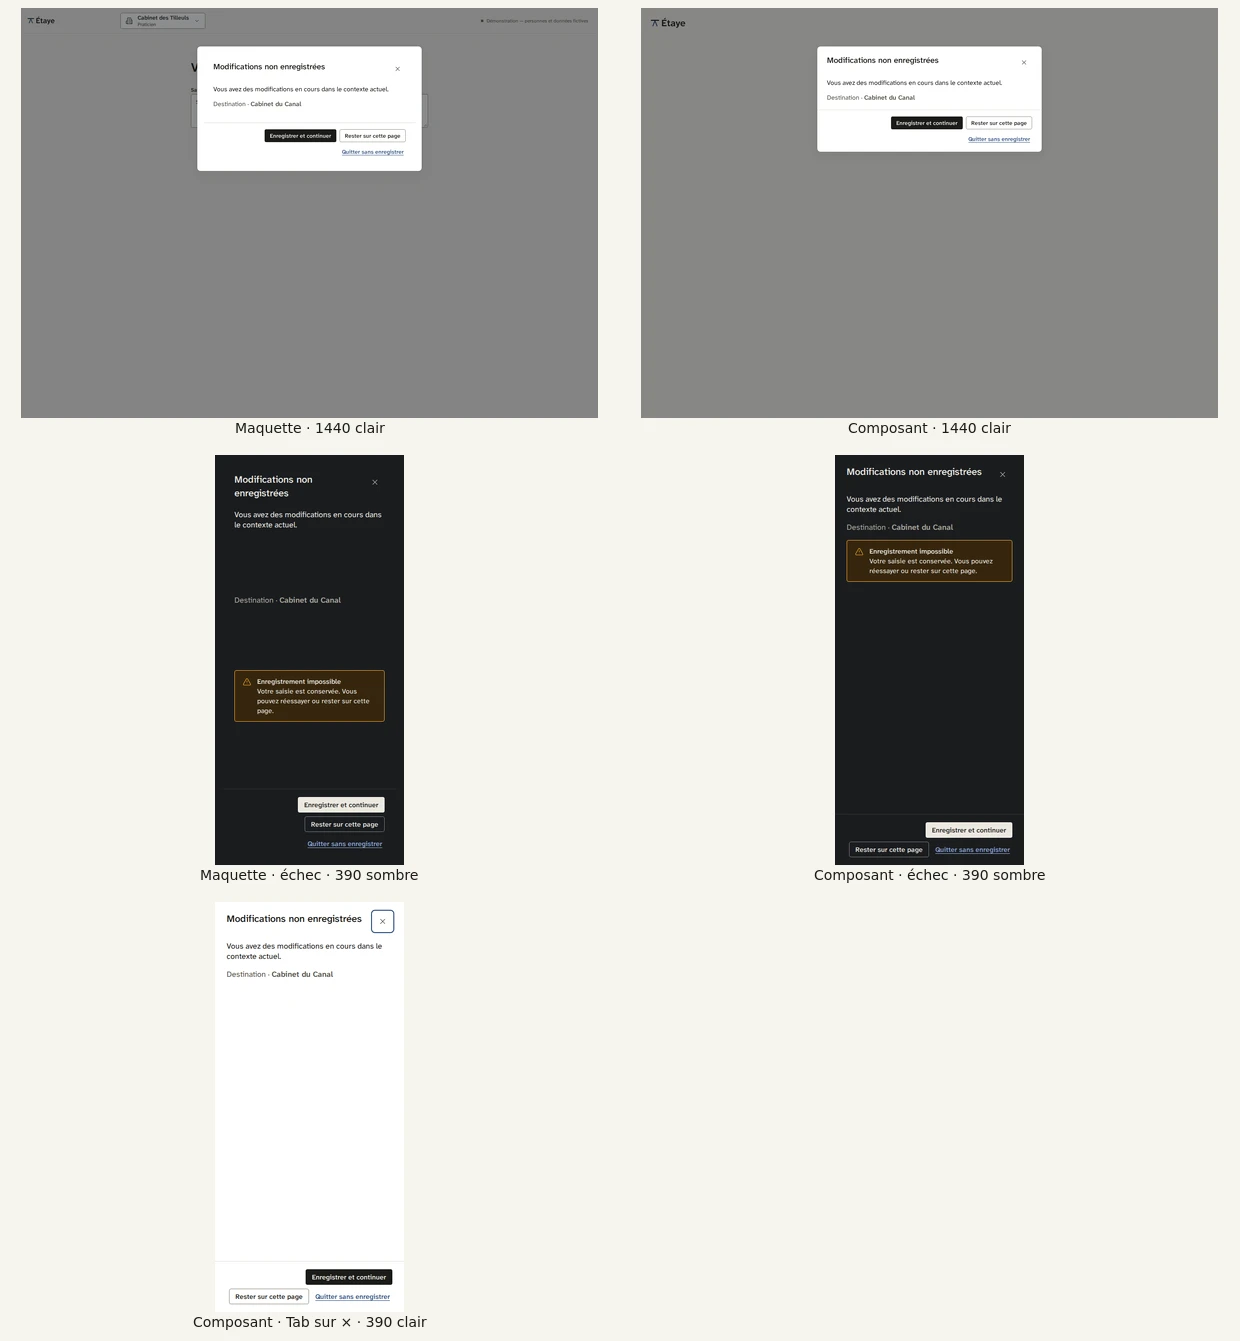
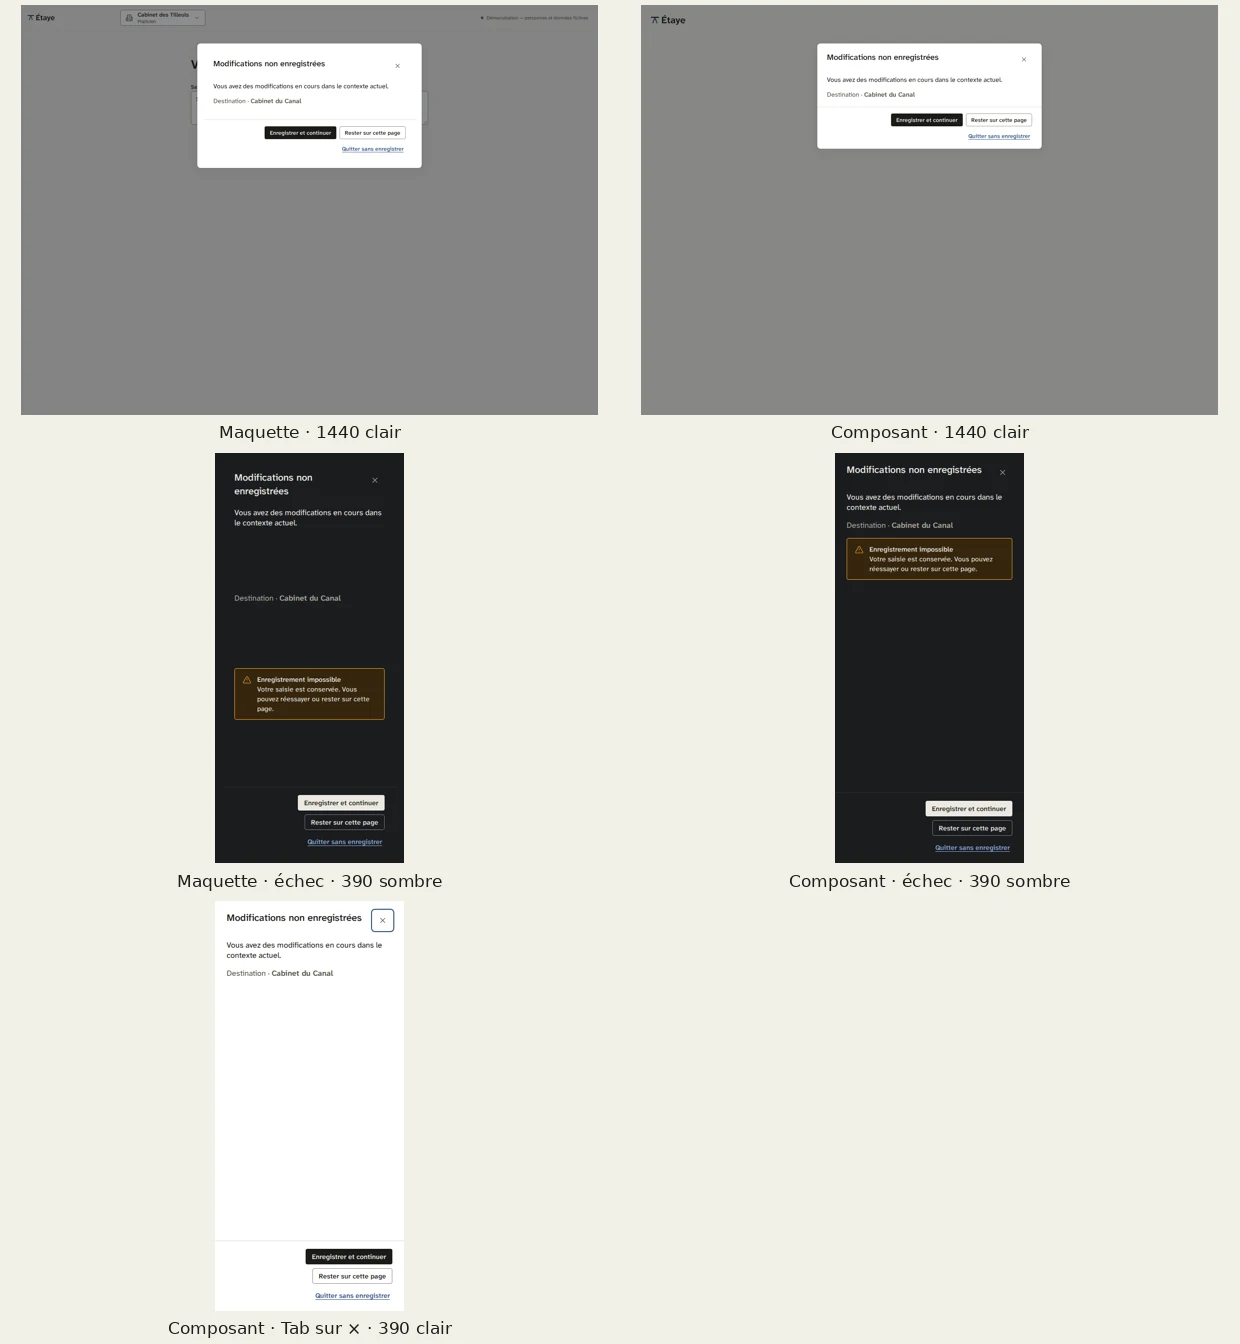
docs(access): record Zcode triage and running UI evidence

diff --git a/docs/implementation-artifacts/story-1-3-implementation-record.md b/docs/implementation-artifacts/story-1-3-implementation-record.md
@@ -4,7 +4,7 @@ Date: 2026-11-21. Branch: `feat/1.3-switch-practice-context`. Approved scope: UD
 
 ## Delivery
 
-Preparation commit `ab7ebcc` records the design review and written authorization. The installed BMAD readiness check passed for 1.3. Contract commit `0b24129` defines the optional `AccessContext[]` projection on the existing `getSession` operation before implementation. The implementation candidate is `309891ee3607e0f9f9aa94699fb196412ce88c66`. Global development authorization remains false.
+Preparation commit `ab7ebcc` records the design review and written authorization. The installed BMAD readiness check passed for 1.3. Contract commit `0b24129` defines the optional `AccessContext[]` projection on the existing `getSession` operation before implementation. Zcode reviewed `309891ee3607e0f9f9aa94699fb196412ce88c66`. Follow-up `ffc88f44d0c5fef4e8ee628c4ab534cd1978843c` contains the confirmed fixes. Global development authorization remains false. [Draft PR #50](https://github.com/Aymenchaghoub/etaye/pull/50)
 
 V4 projects current roles and labels from active staff memberships and verified portal links, in the existing account lookup scope. Record endpoints retain their independent capability and practice ownership checks. The web app makes a fresh session read on selection, switch and re-entry. It drops the previous view and ignores responses from superseded checks. The browser tab owns the selected URL and its UI state. I-20 uses a reusable guard and the approved test-only form.
 
@@ -21,13 +21,26 @@ V4 projects current roles and labels from active staff memberships and verified 
 
 Five Playwright cases passed on the real Spring Boot, React and PostgreSQL stack. They covered 1.3, the existing invitation slice and recovery after stopping or pausing PostgreSQL. The final run used a fixed loopback port for the disposable database and seeded each practice's records under its RLS context. The separate 1.2 inbox browser case was outside this run because its fixed local inbox port was already occupied. Account recovery still ran in the API and smoke suites.
 
-With a disposable stack running, set the database container and web port to match that stack. The recorded command ran from `apps/web`:
+With a disposable stack running, set the database container and web port to match that stack. The evidence run uses a fresh directory and expects 142 S-05 PNG files, covering 70 matched pairs across seven states and one verification pair. The Playwright result annotates whether the visual comparison ran. Use these commands from `apps/web`:
 
 ```sh
+capture_dir=$(mktemp -d)
+ETAYE_E2E_CONTEXT_CAPTURES="$capture_dir" \
 ETAYE_E2E_DB_CONTAINER=etaye-13-fixed-postgres \
 ETAYE_E2E_INVITE_DB_CONTAINER=etaye-13-fixed-postgres \
 ETAYE_E2E_BASE_URL=http://127.0.0.1:15174 \
-corepack pnpm test:e2e-real practice-context.spec.ts invitation-access.spec.ts outage.spec.ts
+corepack pnpm test:e2e-real practice-context.spec.ts invitation-access.spec.ts outage.spec.ts &&
+test "$(find "$capture_dir" -maxdepth 1 -type f -name '*.png' | wc -l)" -eq 142
 ```
 
 The sign-in route is `/connexion`. With the local web dev server, I-20's test form is at `/tests/fixtures/practice-switch.html?outcome=failed`. The form is outside the production build.
+
+## Three-lens review
+
+Zcode 0.17.1 returned one read-only report on the complete contract and application diff from `ab7ebcc` to `309891e`. The headless startup rejected `--mode plan`. The review ran using guarded mode in an isolated directory with execution, writing and delegation disabled. The report found no high or critical implementation defect. Aymen's running UI approval remains the release evidence gate for AT-003-C.
+
+| Angle | Triage and follow-up |
+| --- | --- |
+| Silent failures | The earlier functional run could pass with visual evidence disabled. The result now records the selected mode, and the evidence command checks the expected capture set. Aborting an unmounted I-20 save is a future editor integration constraint. The approved fixture verifies pending dismissal, an unconfirmed outcome and explicit recovery. |
+| Edge cases | Fixed `/compte/` falsely reporting a changed grant. Verified the already-rendered view clears when a background status refresh sees revocation, and retained generic recovery for malformed context paths. Dismissed the conditional NULL label finding using `practice.display_name NOT NULL` in V1. The restricted SQL role and stable account scope remain the projection's trust boundary. |
+| Acceptance criteria | Generated long-label evidence on the real stack at all review widths, with visible keyboard focus at 320 CSS px. Opened the mobile verification pair and preserved the actual comparisons. The production destination has no editor in this slice under UD-52. The 1.2 inbox browser case remains outside the recorded real-stack run. The paused-work identity and exact-grant match was rerun in web smoke. |

diff --git a/docs/design/reviews/2026-11-21-story-1-3-runtime.md b/docs/design/reviews/2026-11-21-story-1-3-runtime.md
@@ -1,15 +1,16 @@
 # Story 1.3 running UI review
 
-2026-11-21 · Story 1.3 · AT-003-C · Application candidate `309891ee3607e0f9f9aa94699fb196412ce88c66`.
+2026-11-21 · Story 1.3 · AT-003-C · Application candidate `ffc88f44d0c5fef4e8ee628c4ab534cd1978843c`.
 
 The left panels use the offline references approved under UD-54. The right panels show Chromium running the application against a disposable Spring Boot and PostgreSQL stack with synthetic identities and practice grants. I-20 uses the test-only form approved under UD-52. The [design review](2026-11-21-story-1-3-variants.md) records the Figma exception and approved reference.
 
 | Evidence | Opened comparison | Observed details |
 | --- | --- | --- |
 | [S-05 chooser, portal and revoked access](2026-11-21-story-1-3-runtime/S-05.webp) | 1440 px desktop, 390 px mobile, 320 CSS px reflow | The chooser retains the existing account name and sign-out action. The application lists grants in server order. The revoked state uses the existing “Accès modifié” heading with the approved warning and remaining choices. |
-| [S-05 error and verification](2026-11-21-story-1-3-runtime/S-05-recovery.webp) | 1024 px tablet, 390 px mobile | The error and retry fit within the chooser. The running failure state omits the normal explanatory paragraph. The mobile verification state uses the approved short waiting message. |
-| [I-20 confirmation, failed save and focus](2026-11-21-story-1-3-runtime/I-20.webp) | 1440 px desktop, 390 px mobile | The error stays next to the source and destination text. Mobile buttons wrap with “Enregistrer et continuer” above the two exit actions at 390 px. The reference stacks all three. The fixture uses a minimal background. The close button gets its blue outline after Tab, with focus starting on the title. |
+| [S-05 error](2026-11-21-story-1-3-runtime/S-05-recovery.webp) and [verification](2026-11-21-story-1-3-runtime/S-05-verification.webp) | 1024 px tablet, 390 px mobile | The chooser keeps its explanatory paragraph while verifying access and after a failure. The warning, retry and live status fit within the respective viewports. |
+| [S-05 long French label and keyboard focus](2026-11-21-story-1-3-runtime/S-05-long.webp) | 320 CSS px in dark mode | The full practice label and focused action fit inside the viewport. The application displays the short role from the contract. The design stress test also uses a long descriptive role sentence. |
+| [I-20 confirmation, failed save and focus](2026-11-21-story-1-3-runtime/I-20.webp) | 1440 px desktop, 390 px mobile | The running error stays immediately below the destination. The design reference distributes its text vertically. The actions stack at 390 px and the fixture uses a minimal background. The close button gets its blue outline after Tab, with focus starting on the title. |
 
-The local full-size capture set at `/tmp/etaye-13-final-evidence.KZI7Qp` contains 60 S-05 comparison pairs across six states, five dimensions (1440×1024, 1024×768, 768×1024, 390×844 and 320×844) and light and dark themes. The sample also includes one verification capture while a test held a genuine session response. I-20 has 16 comparison pairs across four widths and two themes, plus the focused mobile close button. The committed sheets preserve the opened comparisons. Browser assertions covered long French content reflow, keyboard operation, pending dismissal and failed-save recovery independently.
+The local full-size capture set at `/tmp/etaye-13-reviewed-evidence.2fL1pX` contains 70 S-05 comparison pairs across seven states including long labels, five dimensions (1440×1024, 1024×768, 768×1024, 390×844 and 320×844) and light and dark themes. It also contains a verification pair taken while the browser test held a genuine session response. I-20 has 16 comparison pairs across four widths and two themes, plus the focused mobile close button. The committed sheets preserve the opened comparisons. Browser assertions covered long French content reflow, keyboard operation, pending dismissal and failed-save recovery independently.
 
 **Review pending.** Aymen approved the designs under UD-54. Review of the running application and the differences above remains a merge gate. The [implementation record](../../implementation-artifacts/story-1-3-implementation-record.md) gives the local verification command and runtime entry points.

diff --git a/docs/continuation.md b/docs/continuation.md
@@ -8,7 +8,9 @@ Updated: 2026-11-21. Owner: Aymen Chaghoub.
 
 **Actual verification.** API verify passed 160 tests, web smoke passed 45, and five real-stack browser cases passed. The [implementation record](implementation-artifacts/story-1-3-implementation-record.md) gives the scope and limits. The [running UI comparisons](design/reviews/2026-11-21-story-1-3-runtime.md) preserve the S-05 and I-20 review evidence.
 
-**Next action.** Triage the three-lens Zcode report and obtain Aymen's review of the running screens. Verify the GitHub checks and request CodeRabbit on the published draft. Merge requires the recorded running UI review.
+**Review.** Zcode reported on `309891e`. Follow-up `ffc88f4` corrects the account-home alias, tests revocation on the polling path and strengthens the visual evidence. The implementation record records the three review angles and remaining evidence limits. [Draft PR #50](https://github.com/Aymenchaghoub/etaye/pull/50)
+
+**Next action.** Obtain Aymen's review of the running screens. Check the exact tip of PR #50 and the manual CodeRabbit response. Merge requires the recorded running UI review.
 
 ## Story 1.3 design approved — 2026-11-21
 
